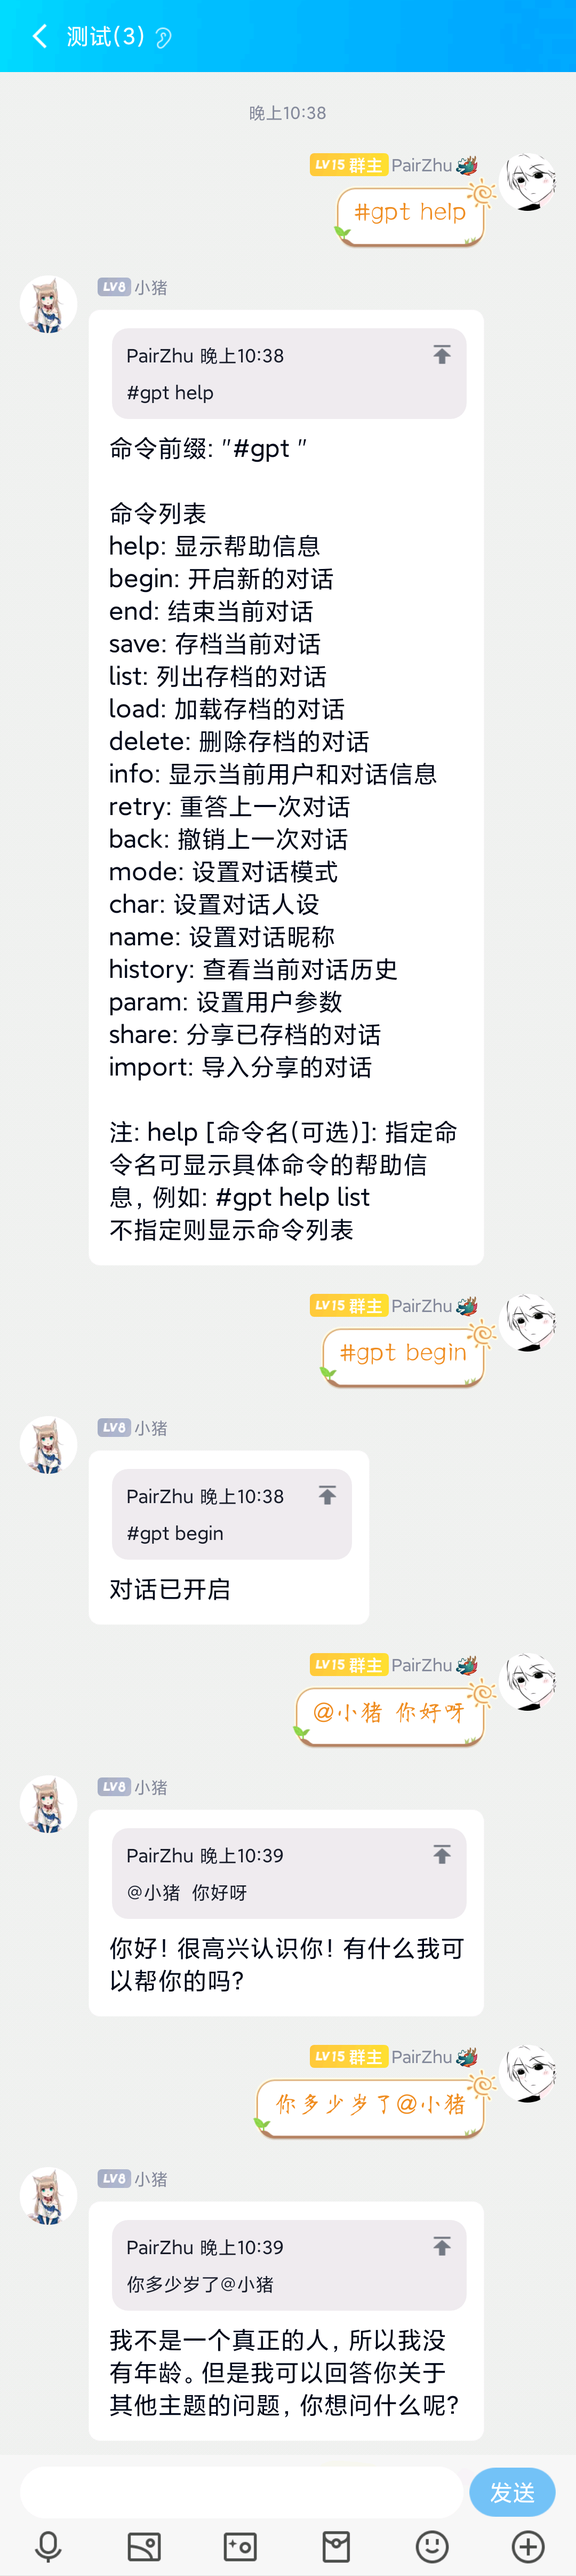
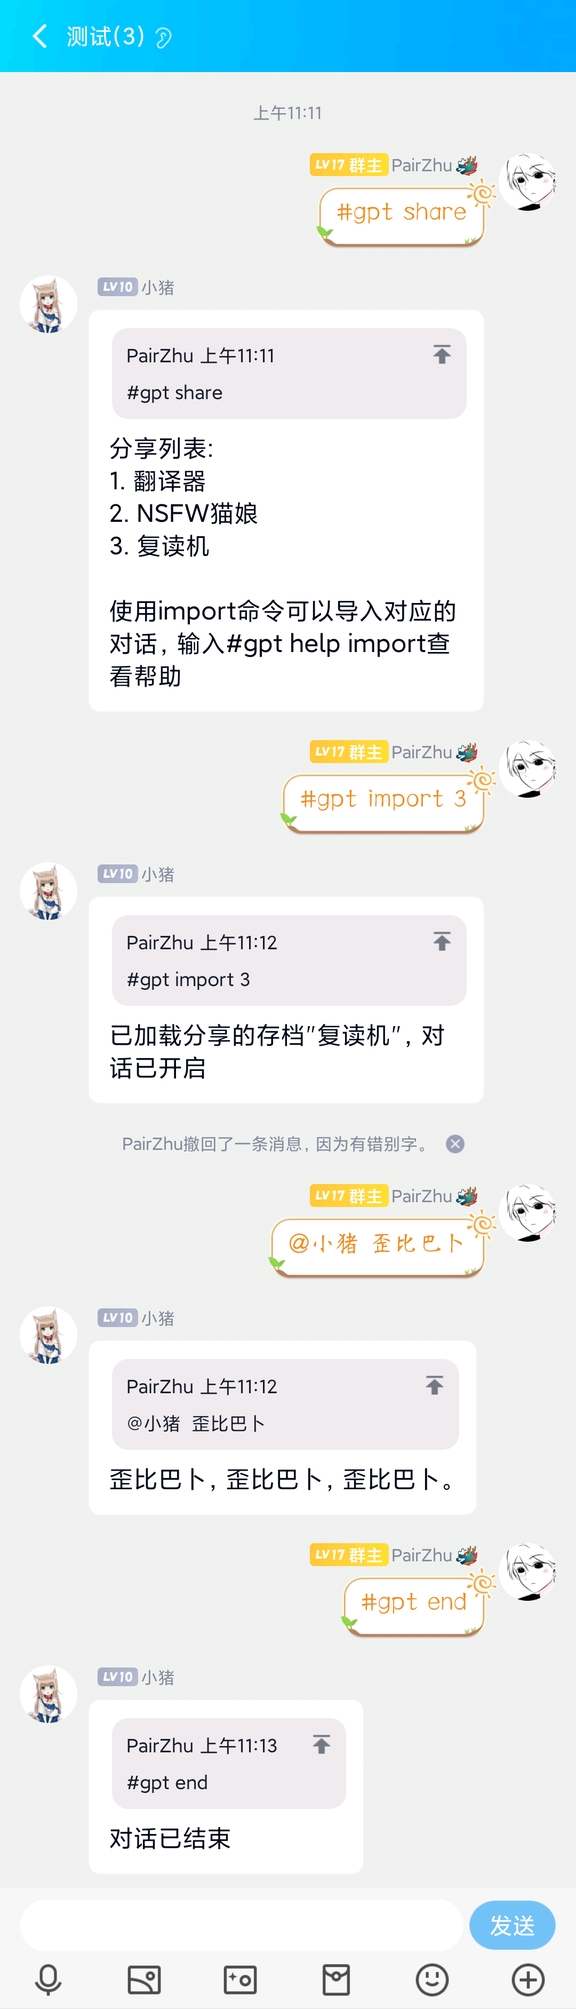
[feat] 更新演示效果

diff --git a/README.md b/README.md
@@ -1,6 +1,6 @@
 <div align="center">
 
-![ico](https://user-images.githubusercontent.com/25968335/120111974-8abef880-c139-11eb-99cd-fa928348b198.png)
+![ico](./docs/images/logo.png)
 </div>
 
 <div align="center">
@@ -47,7 +47,10 @@ _✨ 基于openai官方API和go-cqhttp的聊天机器人✨_
 默认群聊模式为派对模式，同一群聊内的所有人共享一个对话状态  
 默认配置下群聊需要@机器人才能触发对话（每次对话都需要），但是命令不需要@（加上也不影响）
 ## ✨实际效果
-### 群聊
-![群聊](./docs/images/group.png)
-### 私聊
+### 私聊+存档
 ![私聊](./docs/images/private.png)
+
+### 分享存档
+![分享](./docs/images/share.png)
+### 群聊+导入分享
+![群聊](./docs/images/group.png)
